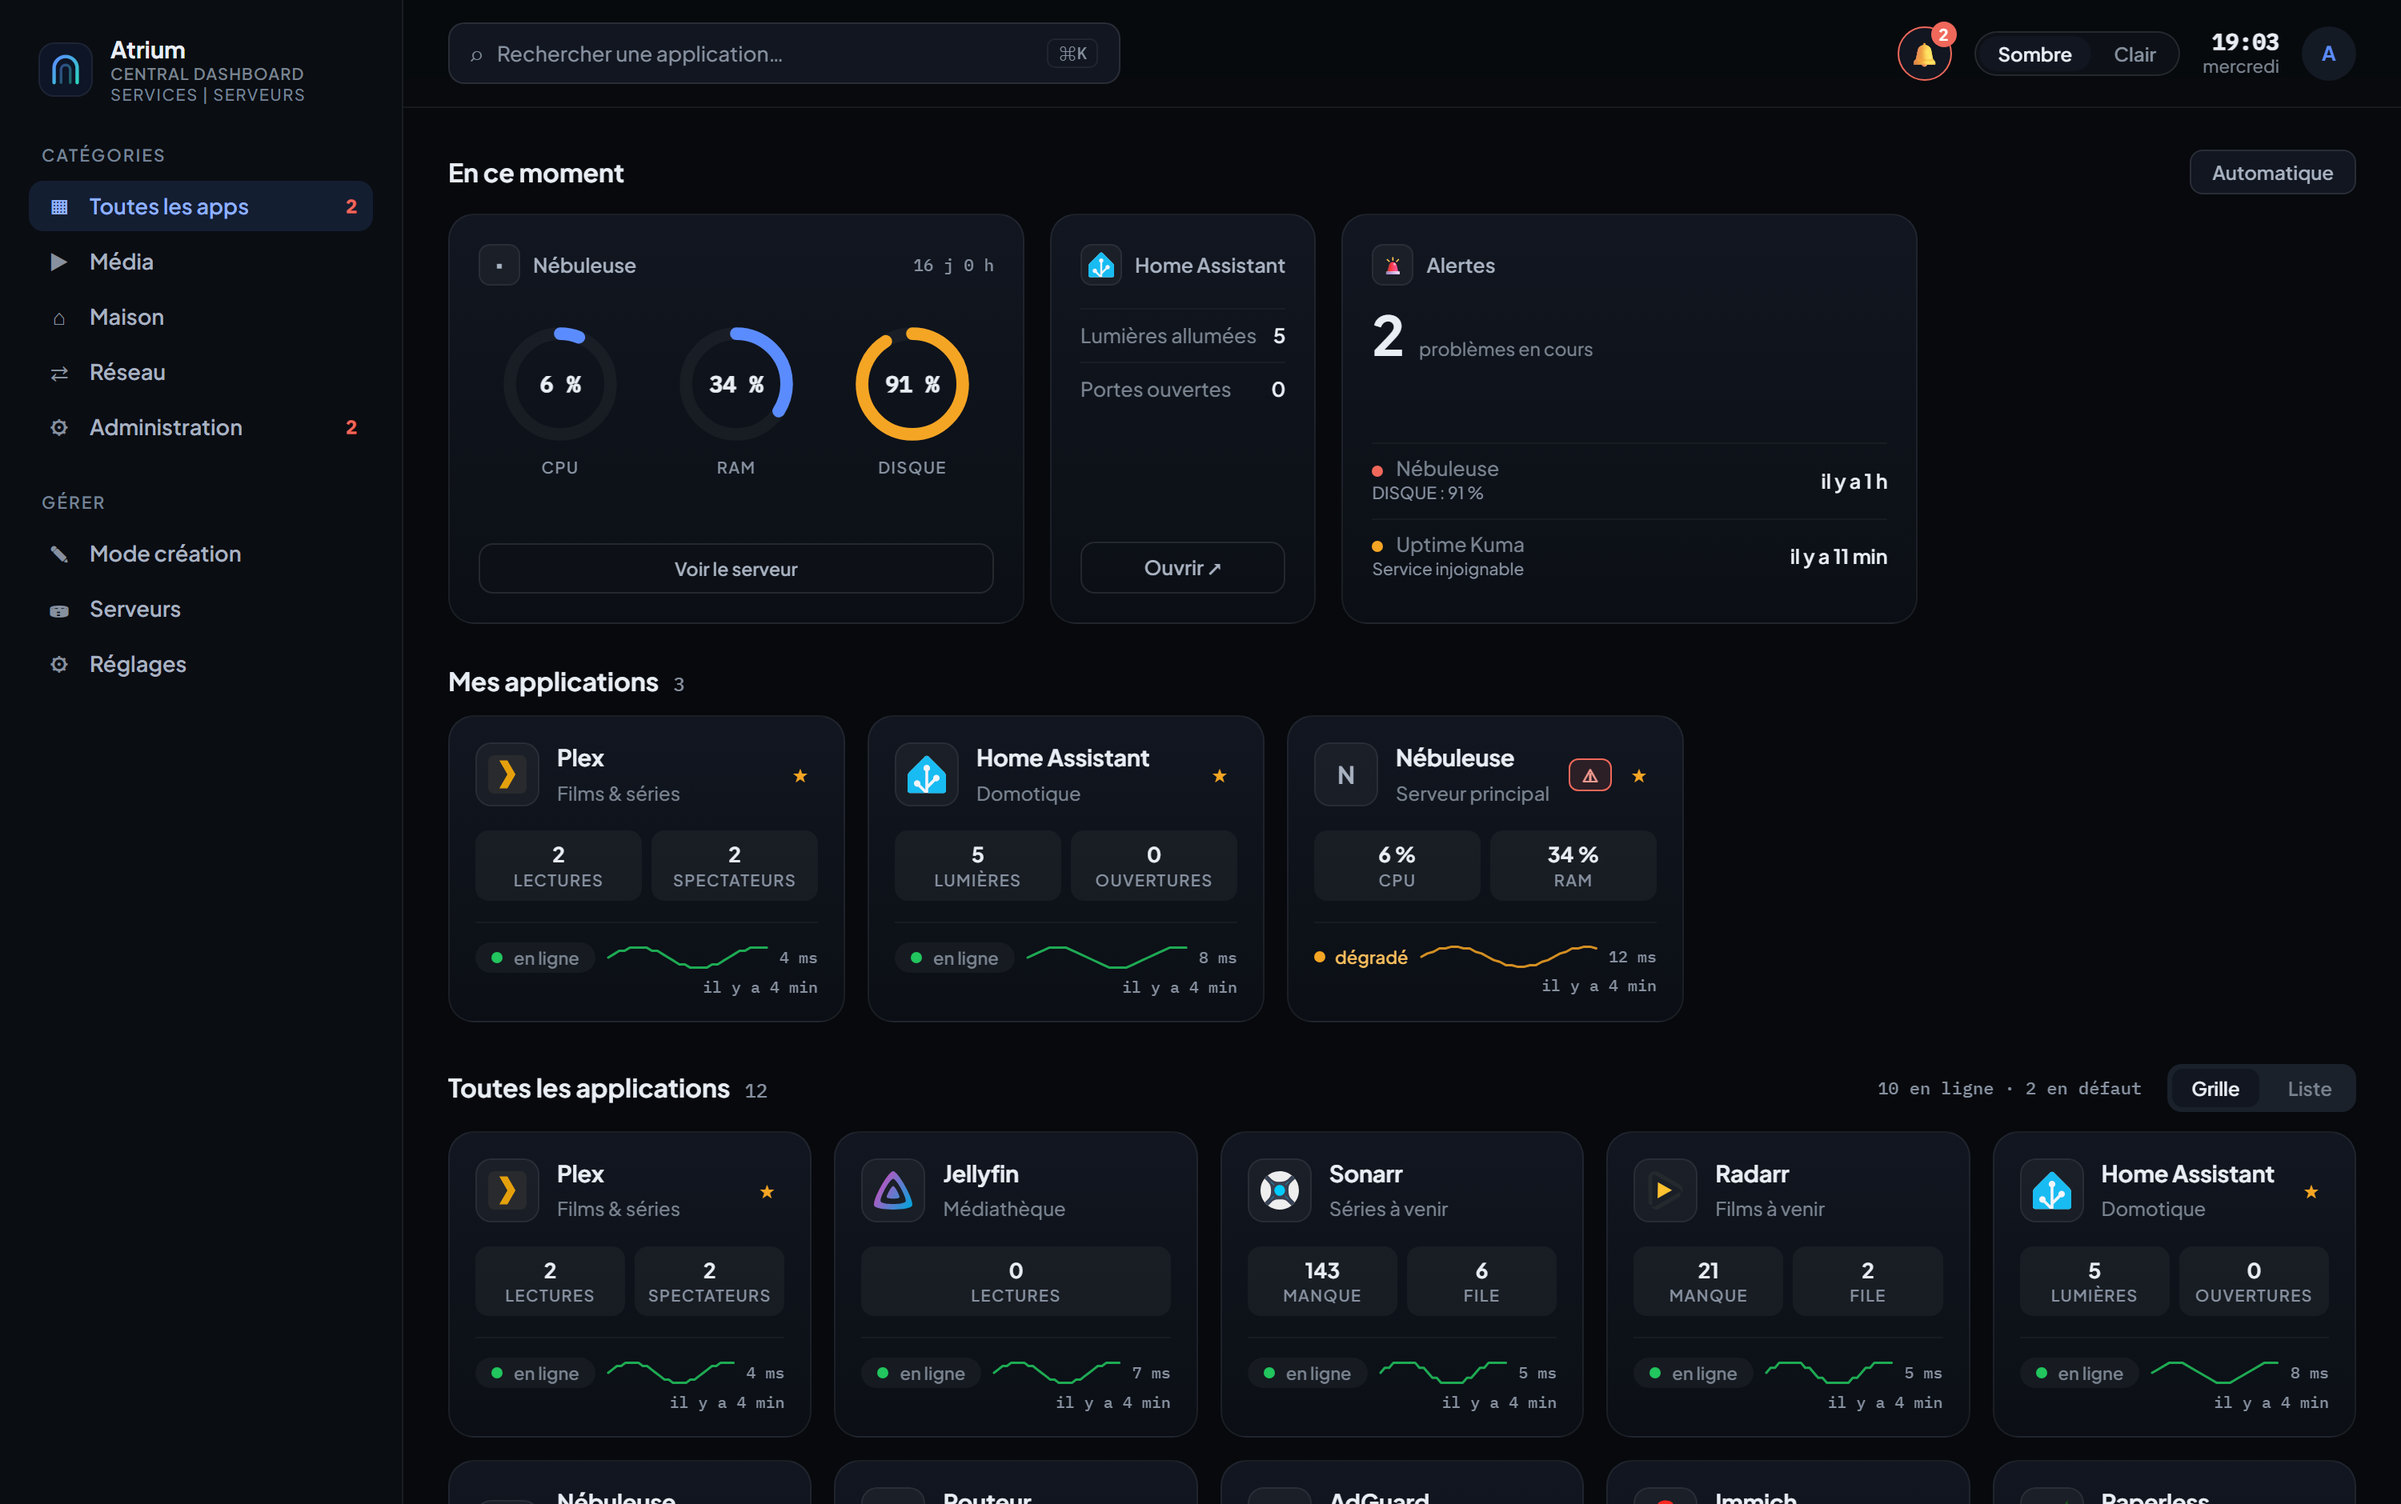
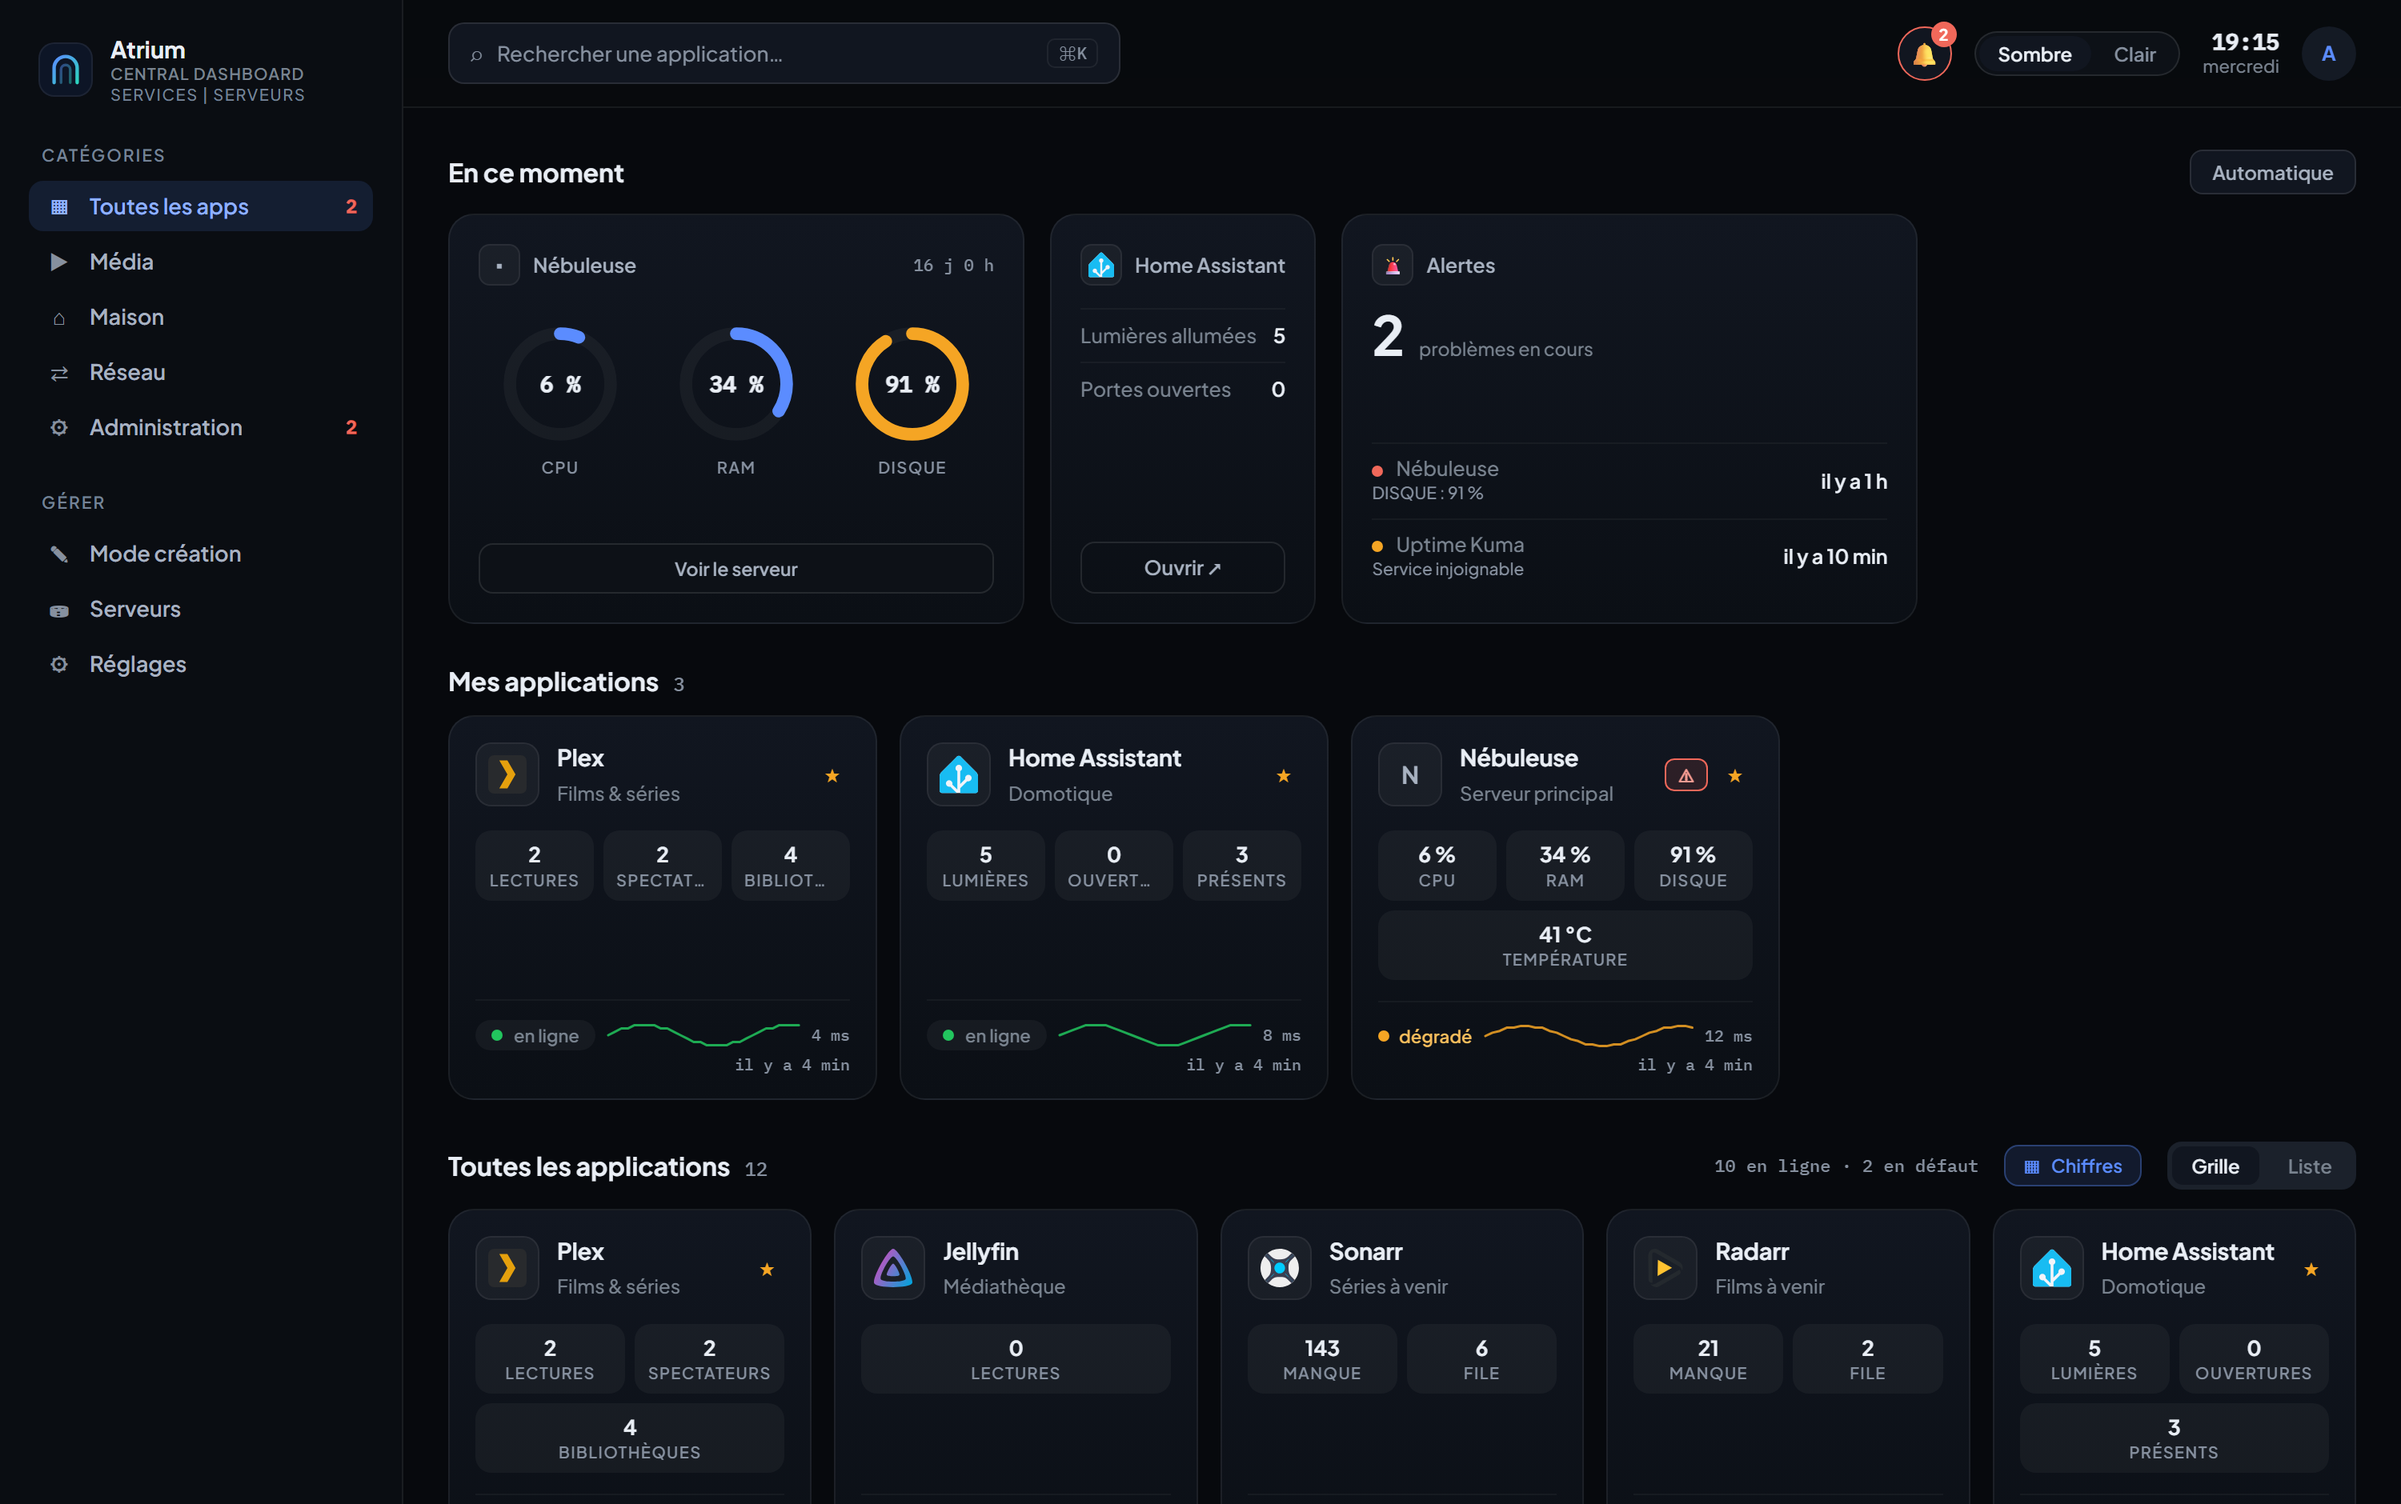
Rend toutes les mesures, aligne les tuiles, sort le bouton
Trois corrections, et la première est une erreur de lecture de ma part.

Le plafond à deux pastilles, tu ne l avais pas demandé : je l avais déduit de
tes photos de référence, où il se trouve qu il y en avait deux. Un service qui
en remonte quatre en montrait donc deux, et les autres disparaissaient. Elles
reviennent toutes. Le vrai problème que je croyais résoudre — les libellés
tronqués — se règle autrement : les pastilles partagent la ligne tant qu elles
y tiennent et passent à la suivante sinon, et le libellé complet se lit au
survol quand il est coupé.

Les tuiles se déformaient parce que leur pied flottait à la hauteur du contenu.
Une tuile sans mesure et une tuile qui en porte quatre ont maintenant leurs
pieds alignés, et une pastille seule ne s étire plus sur toute la largeur.

Le réglage que tu demandais, je l avais renvoyé vers Apparence alors que tu
parlais d un bouton dans l interface. Il est à côté de Grille et Liste, il
bascule les chiffres de toutes les tuiles d un geste, et il partage sa valeur
avec l interrupteur d Apparence : les deux se suivent.

Les tuiles reprennent un peu de largeur, de quoi loger trois libellés sur une
ligne.

diff --git a/app/static/index.html b/app/static/index.html
@@ -441,7 +441,7 @@ a.card:hover{box-shadow:var(--sh-hover);border-color:var(--accent-border);transf
 .grid{display:flex;flex-wrap:wrap;gap:14px;align-content:flex-start}
 /* les tuiles ordinaires s'étirent un peu pour finir la rangée, sans jamais
    devenir disproportionnées */
-.grid:not(.list) > *{flex:1 1 196px;min-width:0;max-width:248px}
+.grid:not(.list) > *{flex:1 1 210px;min-width:0;max-width:268px}
 .app-card{position:relative;display:flex;flex-direction:column;gap:13px;padding:16px}
 /* Le nom se tient à côté du logo, pas dessous : deux lignes gagnées, que les
    chiffres occupent. La tuile n'a donc plus besoin de s'élargir pour les
@@ -460,11 +460,19 @@ a.card:hover{box-shadow:var(--sh-hover);border-color:var(--accent-border);transf
 .app-tags .star.on{opacity:1;color:var(--warn)}
 .app-name{font:700 14.5px/1.25 'Plus Jakarta Sans',sans-serif;letter-spacing:-.01em;overflow:hidden;text-overflow:ellipsis;white-space:nowrap}
 .app-role{margin-top:3px;font:500 12px/1.4 'Plus Jakarta Sans',sans-serif;color:var(--muted)}
-.app-foot{display:flex;align-items:center;justify-content:space-between;gap:8px;padding-top:12px;border-top:1px solid var(--divider)}
+/* Calé en bas : dans une rangée, une tuile sans mesure et une tuile qui en
+   porte quatre ont la même hauteur, et leurs pieds s'alignent au lieu de
+   flotter chacun à sa hauteur. */
+.app-foot{display:flex;align-items:center;justify-content:space-between;gap:8px;
+          margin-top:auto;padding-top:12px;border-top:1px solid var(--hair2)}
 
 /* chiffres remontés du service, sur la tuile */
-.app-stats{display:flex;gap:6px;margin-top:2px}
-.app-stats .st{flex:1;min-width:0;padding:7px 8px;border-radius:8px;background:var(--subtle);text-align:center}
+/* Les pastilles partagent la ligne tant qu'elles y tiennent, et passent à la
+   suivante sinon : deux, trois ou quatre mesures se rangent seules, sans
+   qu'aucune ne soit écartée. */
+.app-stats{display:flex;flex-wrap:wrap;gap:6px;margin-top:2px}
+.app-stats .st{flex:1 1 62px;min-width:0;padding:7px 8px;border-radius:10px;
+               background:var(--s3);text-align:center}
 .app-stats .v{font:700 13px/1.2 'Plus Jakarta Sans',sans-serif;color:var(--text);overflow:hidden;text-overflow:ellipsis;white-space:nowrap}
 .app-stats .l{margin-top:2px;font:600 10px/1.2 'Plus Jakarta Sans',sans-serif;letter-spacing:.07em;color:var(--muted-2);overflow:hidden;text-overflow:ellipsis;white-space:nowrap}
 
@@ -491,6 +499,17 @@ a.card:hover{box-shadow:var(--sh-hover);border-color:var(--accent-border);transf
 .badge-warn .dot{background:var(--warn)}
 .badge-on .lat:empty{display:none}
 .app-seen{font:500 10px/1 'IBM Plex Mono',monospace;color:var(--muted-2);white-space:nowrap}
+/* Montrer ou cacher les chiffres de toutes les tuiles d'un geste, là où on les
+   regarde. Le même réglage vit dans Apparence : les deux commandent la même
+   valeur et se suivent. */
+.bascule-stats{display:flex;align-items:center;gap:7px;padding:6px 11px;border-radius:9px;
+               border:1px solid var(--hair4);background:var(--field);
+               font:600 11.5px/1 'Plus Jakarta Sans',sans-serif;color:var(--t5);
+               transition:color .15s,border-color .18s,background .15s}
+.bascule-stats:hover{border-color:var(--hairH);color:var(--t3)}
+.bascule-stats[aria-checked="true"]{background:var(--acc-soft);border-color:var(--acc-line);
+                                    color:var(--acc)}
+.bascule-stats .ic{font-size:12px;line-height:1}
 .apps-tally{margin-left:auto;font:500 11px/1 'IBM Plex Mono',monospace;color:var(--muted-2);white-space:nowrap}
 .apps-tally:empty{display:none}
 .app-foot{flex-wrap:wrap;row-gap:6px}
@@ -1503,6 +1522,10 @@ code{font:500 11px/1 'IBM Plex Mono',monospace;background:var(--subtle);padding:
           </div>
           <button class="btn-sm" id="btn-ranger" type="button" hidden data-i18n="apps.tidy">Ranger par catégorie</button>
           <span class="apps-tally" id="apps-tally"></span>
+          <button class="bascule-stats" id="btn-stats" type="button" role="switch"
+                  data-i18n-title="look.stats" title="Chiffres sur les tuiles">
+            <span class="ic">▦</span><span data-i18n="apps.figures">Chiffres</span>
+          </button>
           <div class="seg" id="seg-view">
             <button data-view="grid" class="on" data-i18n="apps.grid">Grille</button>
             <button data-view="list" data-i18n="apps.list">Liste</button>
@@ -2771,6 +2794,7 @@ function applyTheme() {
   document.documentElement.setAttribute('data-densite', densite);
   document.documentElement.setAttribute('data-anim', animations ? '1' : '0');
   appliquerAccent();
+  majBoutonStats();
   /* C'est le mode effectif qui est marqué : sous « Système », le segment
      montre celui que l'appareil impose. */
   $('theme-seg').querySelectorAll('[data-v]')
@@ -5310,10 +5334,7 @@ function appCard(app, index) {
   const zone = a.querySelector('.app-stats');
   if (chiffres && chiffres.length) {
     zone.hidden = false;
-    /* Deux pastilles, pas davantage : au-delà, la tuile n'a plus la largeur de
-       montrer les libellés, et « BIBLIOTHÈ… » n'apprend rien. Les autres
-       mesures restent lisibles sur la fiche du service et en vue Liste. */
-    chiffres.slice(0, 2).forEach((s) => {
+    chiffres.forEach((s) => {
       const c = document.createElement('div');
       c.className = 'st';
       const v = document.createElement('div');
@@ -5322,6 +5343,7 @@ function appCard(app, index) {
       const l = document.createElement('div');
       l.className = 'l';
       l.textContent = s.lab;
+      l.title = s.lab;
       c.appendChild(v);
       c.appendChild(l);
       zone.appendChild(c);
@@ -5937,6 +5959,7 @@ function renderApparence() {
   bascule('look-stats', voirStats, (v) => {
     voirStats = v;
     store.set('stats', v ? '1' : '0');
+    majBoutonStats();          // l'autre commande suit
     renderApps();
     renderApparence();
   });
@@ -7385,6 +7408,19 @@ window.addEventListener('keydown', (e) => {
 });
 
 /* ---------- vue grille / liste ---------- */
+/* Une seule valeur, deux commandes : le bouton de la barre et l'interrupteur
+   d'Apparence se reflètent l'un l'autre. */
+function majBoutonStats() {
+  const b = $('btn-stats');
+  b.setAttribute('aria-checked', voirStats ? 'true' : 'false');
+}
+$('btn-stats').addEventListener('click', () => {
+  voirStats = !voirStats;
+  store.set('stats', voirStats ? '1' : '0');
+  majBoutonStats();
+  renderApps();
+  if (!$('spage').hidden) renderApparence();
+});
 $('seg-view').addEventListener('click', (e) => {
   const btn = e.target.closest('[data-view]');
   if (!btn) return;

diff --git a/app/static/i18n.js b/app/static/i18n.js
@@ -320,6 +320,7 @@
     'alert.diag.clear': 'Plus aucun problème : tout répond.',
     'alert.diag.left': '{n} problème(s) confirmé(s) après nouvelle vérification.',
     'alert.watching': 'vérifié {q} · surveillance active',
+    'apps.figures': 'Chiffres',
     'apps.tally': '{on} en ligne · {ko} en défaut',
     'apps.tally.ok': '{on} en ligne',
     'app.checking': 'vérification…',
@@ -915,6 +916,7 @@
     'alert.diag.clear': 'Nothing wrong any more: everything responds.',
     'alert.diag.left': '{n} issue(s) confirmed after re-checking.',
     'alert.watching': 'checked {q} · monitoring active',
+    'apps.figures': 'Figures',
     'apps.tally': '{on} online · {ko} down',
     'apps.tally.ok': '{on} online',
     'app.checking': 'checking…',
